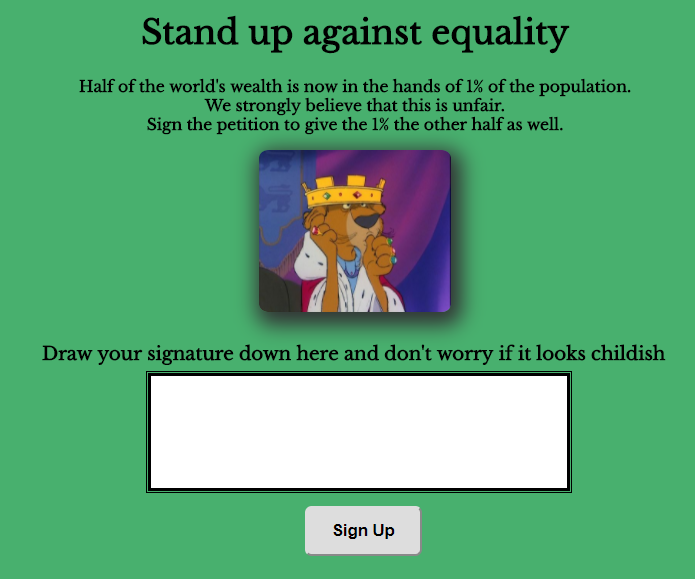
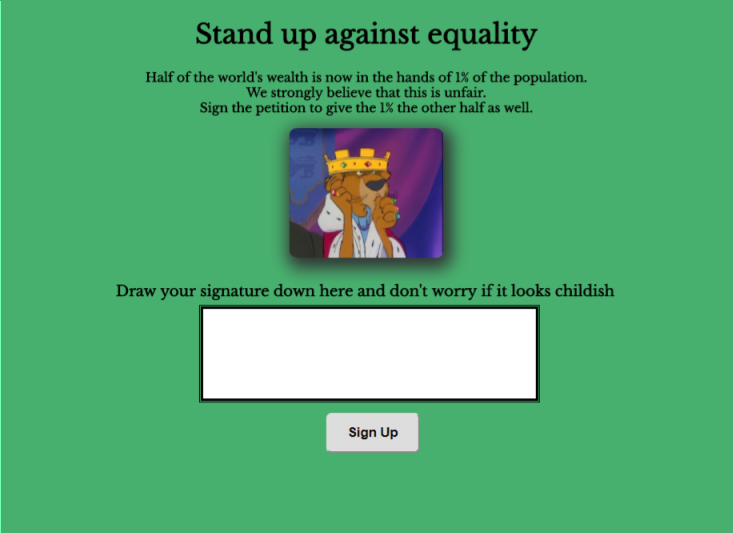
change readme img

Changed region(s): [[0.0604, 0.03, 0.9669, 0.9606]]

diff --git a/public/style.css b/public/style.css
@@ -326,7 +326,7 @@ label{
     justify-content: space-between;
     align-items: center;
     margin:0 auto;
-    margin-top: 80px;
+    margin-top: 30px;
 }
 
 #updateButton{

diff --git a/README.md b/README.md
@@ -18,20 +18,14 @@ The idea behind this project is to create an online petition that visitors can s
 * Users can edit his/her personal information(city,age,homepage) thanks to an "edit" button
 * Users can delete their signatures
 
+
+
 ![Petition Register](petition_registration.png)
 
+****
 
-<!--
 ![Petition Signature](petition_signature.png)
 
 ****
 
 ![Petition Thanks](petition_thanks.png)
-
-****
-
-![Petition Edit Profile](petition_edit.png)
-
-****
-
-![Petition List](petition_list.png) -->
